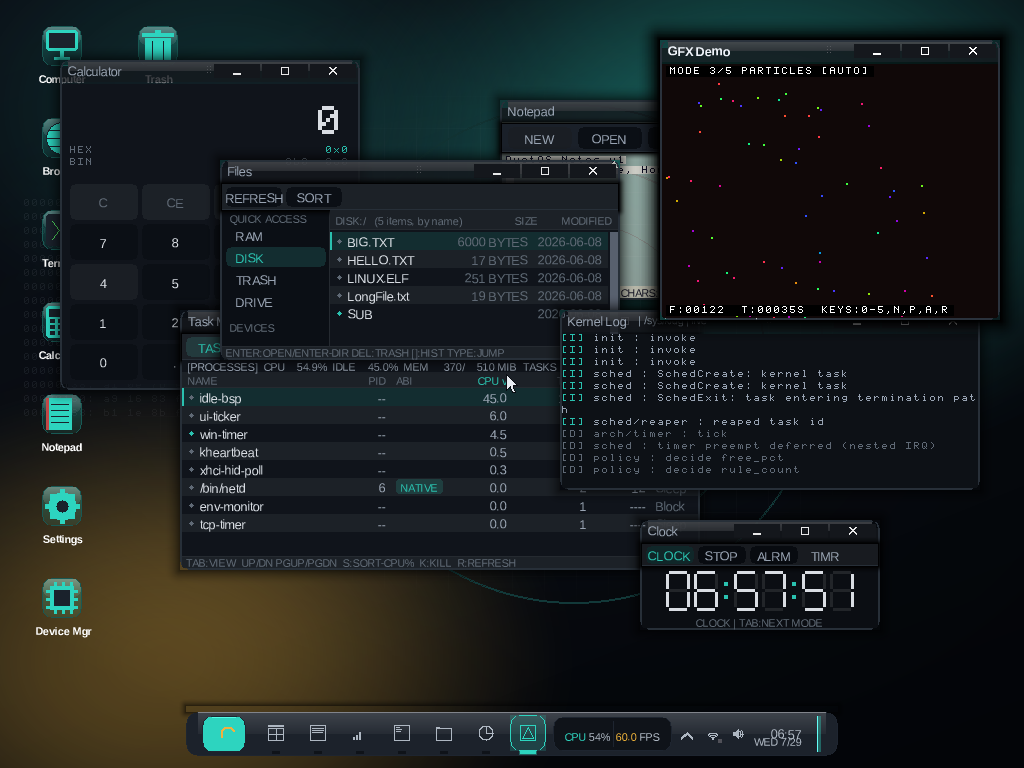
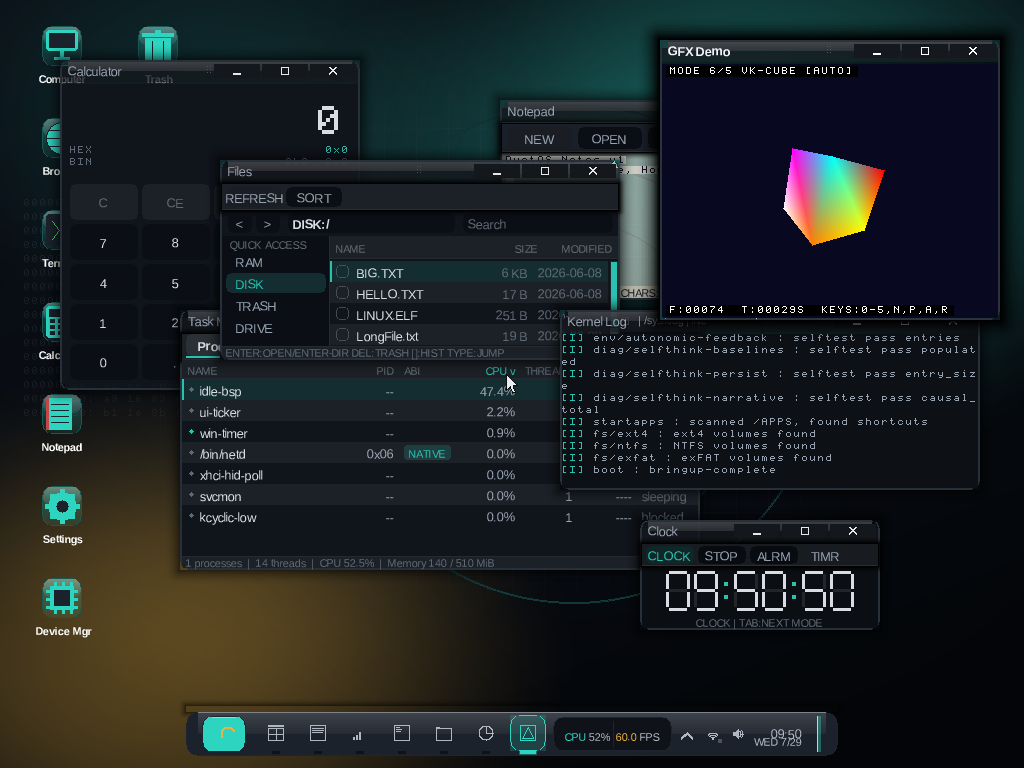
tools: photograph a view that needs input to reach, and a flat-theme twin
Two gaps in the capture rig, both of which cost this lane real
verification.

screenshot.sh gains DUETOS_PRE_DUMP: a file of HMP commands streamed
into the monitor just before the screendump. Without it the rig can
only ever photograph whatever the boot profile happens to leave on
screen, which is why the Task Manager's Performance rail went three
rounds compile- and boot-verified but never seen. It is now
photographed: raise the window by clicking its title bar, click the
Performance tab, dump. Relative pointer moves must be CHUNKED - a
single large delta is clamped before it reaches the guest and the
pointer never arrives - so the file format supports a `sleep`
pseudo-command between steps.

grub.cfg gains a Classic (flat palette) twin of the demo-windows
entry. The Aurora rounds carry a standing requirement that the flat
themes stay pixel-identical, and until now there was no way to
photograph Files or Task Manager under one: the only demo-windows
entry was the Duet (Aurora) one, so a flat-theme regression in an app
interior could only be argued from the source. It is placed BEFORE the
Duet entry, because the screenshot recipe reaches that one by
saturating GRUB's down-arrow count and it therefore has to stay last.

That twin is what proved this branch: capturing the flat desktop from
a base worktree and from this one and running a connected-component
analysis over the difference leaves exactly two non-live regions - the
[…]

diff --git a/wiki/reference/Design-Decisions.md b/wiki/reference/Design-Decisions.md
@@ -13488,3 +13488,47 @@ markers for its richest input. Three discovery layers were added (runtime
   to "unavailable is not a value" - `AcpiSleepTypeFor` returns a bool
   plus out-params precisely because `SLP_TYP == 0` is a legal encoding
   and must stay distinguishable from "firmware declares no such state".
+
+### DD - MouseMove is broadcast to every widget, not first-Consumed-wins
+
+- **Context:** `WidgetGroup::DispatchReverse` stopped at the first
+  widget that returned `Consumed`, for every event kind. That is right
+  for a click, which exactly one widget should act on.
+- **Decision:** `MouseMove` is delivered to the whole chain. Hover is a
+  state *transition*, and `AppButton` can only clear its `Hover` flag by
+  seeing a move that lands outside it; stopping at the widget under the
+  pointer left every previously-hovered sibling permanently lit. Visible
+  proof: the boot self-tests drive synthetic clicks through the Files
+  and Calculator toolbars, and on every flat-theme boot those two apps
+  showed a stuck hover wash on `RAM` and `4` respectively.
+- **Rules out:** having apps clear sibling hover flags by hand before
+  dispatch. That is per-app bookkeeping for a framework invariant, and
+  every app that forgot it would grow the same artefact.
+- **Rules out:** making hover a pull (`widget.IsHovered(cursor)`) read
+  at paint time. That would work, but it moves pointer state into the
+  paint path and every widget would need the cursor position passed
+  down; the event already exists and only needed to reach everyone.
+
+### DD - a column's width bound is measured, never a hand-picked string
+
+- **Context:** the Aurora tables size fixed columns by measuring a
+  "widest value" string (`kWidest*`). Under a proportional face that
+  intuition fails: Liberation Sans puts `f` at 0.278em and `e` at
+  0.556em, so `"0xffff"` measures NARROWER than a real PID like
+  `"0xfeee"`, and `"unknown"` is wider than `"sleeping"` despite being
+  a character shorter. `AppTextCellRight` *drops* a run that would
+  start left of its column rather than clipping it, so the failure mode
+  is not a squeezed cell - it is an entire column silently rendering
+  nothing while the table still looks plausible.
+- **Decision:** a bound over a closed set of values (task states) is
+  computed by measuring every member. A bound over an open set (PIDs)
+  is written with digits rather than letters, with the reason stated at
+  the constant, and the Task Manager self-test asserts that every value
+  it can produce measures no wider than the column `BuildCols`
+  reserved.
+- **Rules out:** eyeballing `kWidest*` strings. This shipped a Task
+  Manager whose PID column was blank for every real process, and the
+  table read as intentional.
+- **Rules out:** making `AppTextCellRight` clip instead of skip. A
+  clipped right-aligned number is a *wrong* number; refusing to draw is
+  the safer contract. The bound is what has to be right.

diff --git a/wiki/subsystems/AppWidgets.md b/wiki/subsystems/AppWidgets.md
@@ -154,10 +154,12 @@ are measured instead of cell-counted:
 
 | Entry point | Job |
 |---|---|
-| `AppRowHeight(role)` | Row pitch that leads `role` comfortably (line box + 5 px). |
+| `AppRowHeight(role)` | Row pitch that leads `role` comfortably (line box + 8 px). The reference's tables run ~2.7x the cap height of the name in them; 5 px put us at ~2.0x, which read visibly tighter. |
 | `AppTextRowY(role, y, row_h)` | Vertical centring; reproduces the historical `(row_h - 8) / 2` on the bitmap path exactly. |
 | `AppTextMeasure` / `AppTextFit` | Measure, and truncate with a trailing `..` on a *pixel* budget rather than a character count. |
 | `AppTextCell` / `AppTextCellRight` | Left- and right-aligned cells. Right-alignment uses the same measurement the paint advances by, so numeric columns stay flush. |
+| `AppRowIconWidth` / `AppRowIconDraw` | The reference's per-row rounded-square type tile (13 px, outlined, one centred glyph). Files' rows use this where they used a 4-px dot; Task Manager keeps the dot, which is what its reference shows. The helper classifies nothing — a caller with no type evidence passes `'\0'` and gets an empty tile rather than a guessed letter. |
+| `AppFormatSize(bytes, out, cap)` | Human-readable byte counts in the reference's shape: `980 B`, `4 KB`, `1.4 MB`, `2.1 GB`. Bytes and KB are whole numbers; MB and GB carry one decimal. Files' rows printed `6000 BYTES` before this. |
 | `AppPillWidth` / `AppPillDraw` | The `NATIVE` / `WIN32 PE` ABI chip. |
 | `AppRowDotWidth` / `AppRowDotDraw` | Per-row liveness dot. |
 
@@ -237,6 +239,18 @@ stops at the first `Consumed` and returns immediately. If every
 widget returned `NotInterested`, the host is free to fall back to
 its raw paint region (Files' folder grid, terminal cell grid,
 hexview byte grid).
+
+**`MouseMove` is the exception: it is broadcast to every widget.**
+Hover is a state *transition*, and a widget can only CLEAR its
+`Hover` flag by being told about a move that falls outside it.
+First-`Consumed`-wins stopped the walk at whichever widget the
+pointer was over, so every previously-hovered sibling stayed lit for
+the rest of the session. That was observable: the boot self-tests
+drive synthetic clicks through the toolbars, and Files' `RAM` button
+and Calculator's `4` key were left wearing a hover wash on every
+flat-theme boot. `DispatchReverse` now delivers `MouseMove` to the
+whole chain and returns `Consumed` if any widget was inside; the
+`MouseDown` / `MouseUp` first-`Consumed`-wins contract is unchanged.
 
 State transitions happen inside `OnEventSelf` — a button hovered-
 to-pressed sequence is three OnEvent calls (MouseMove ON,
